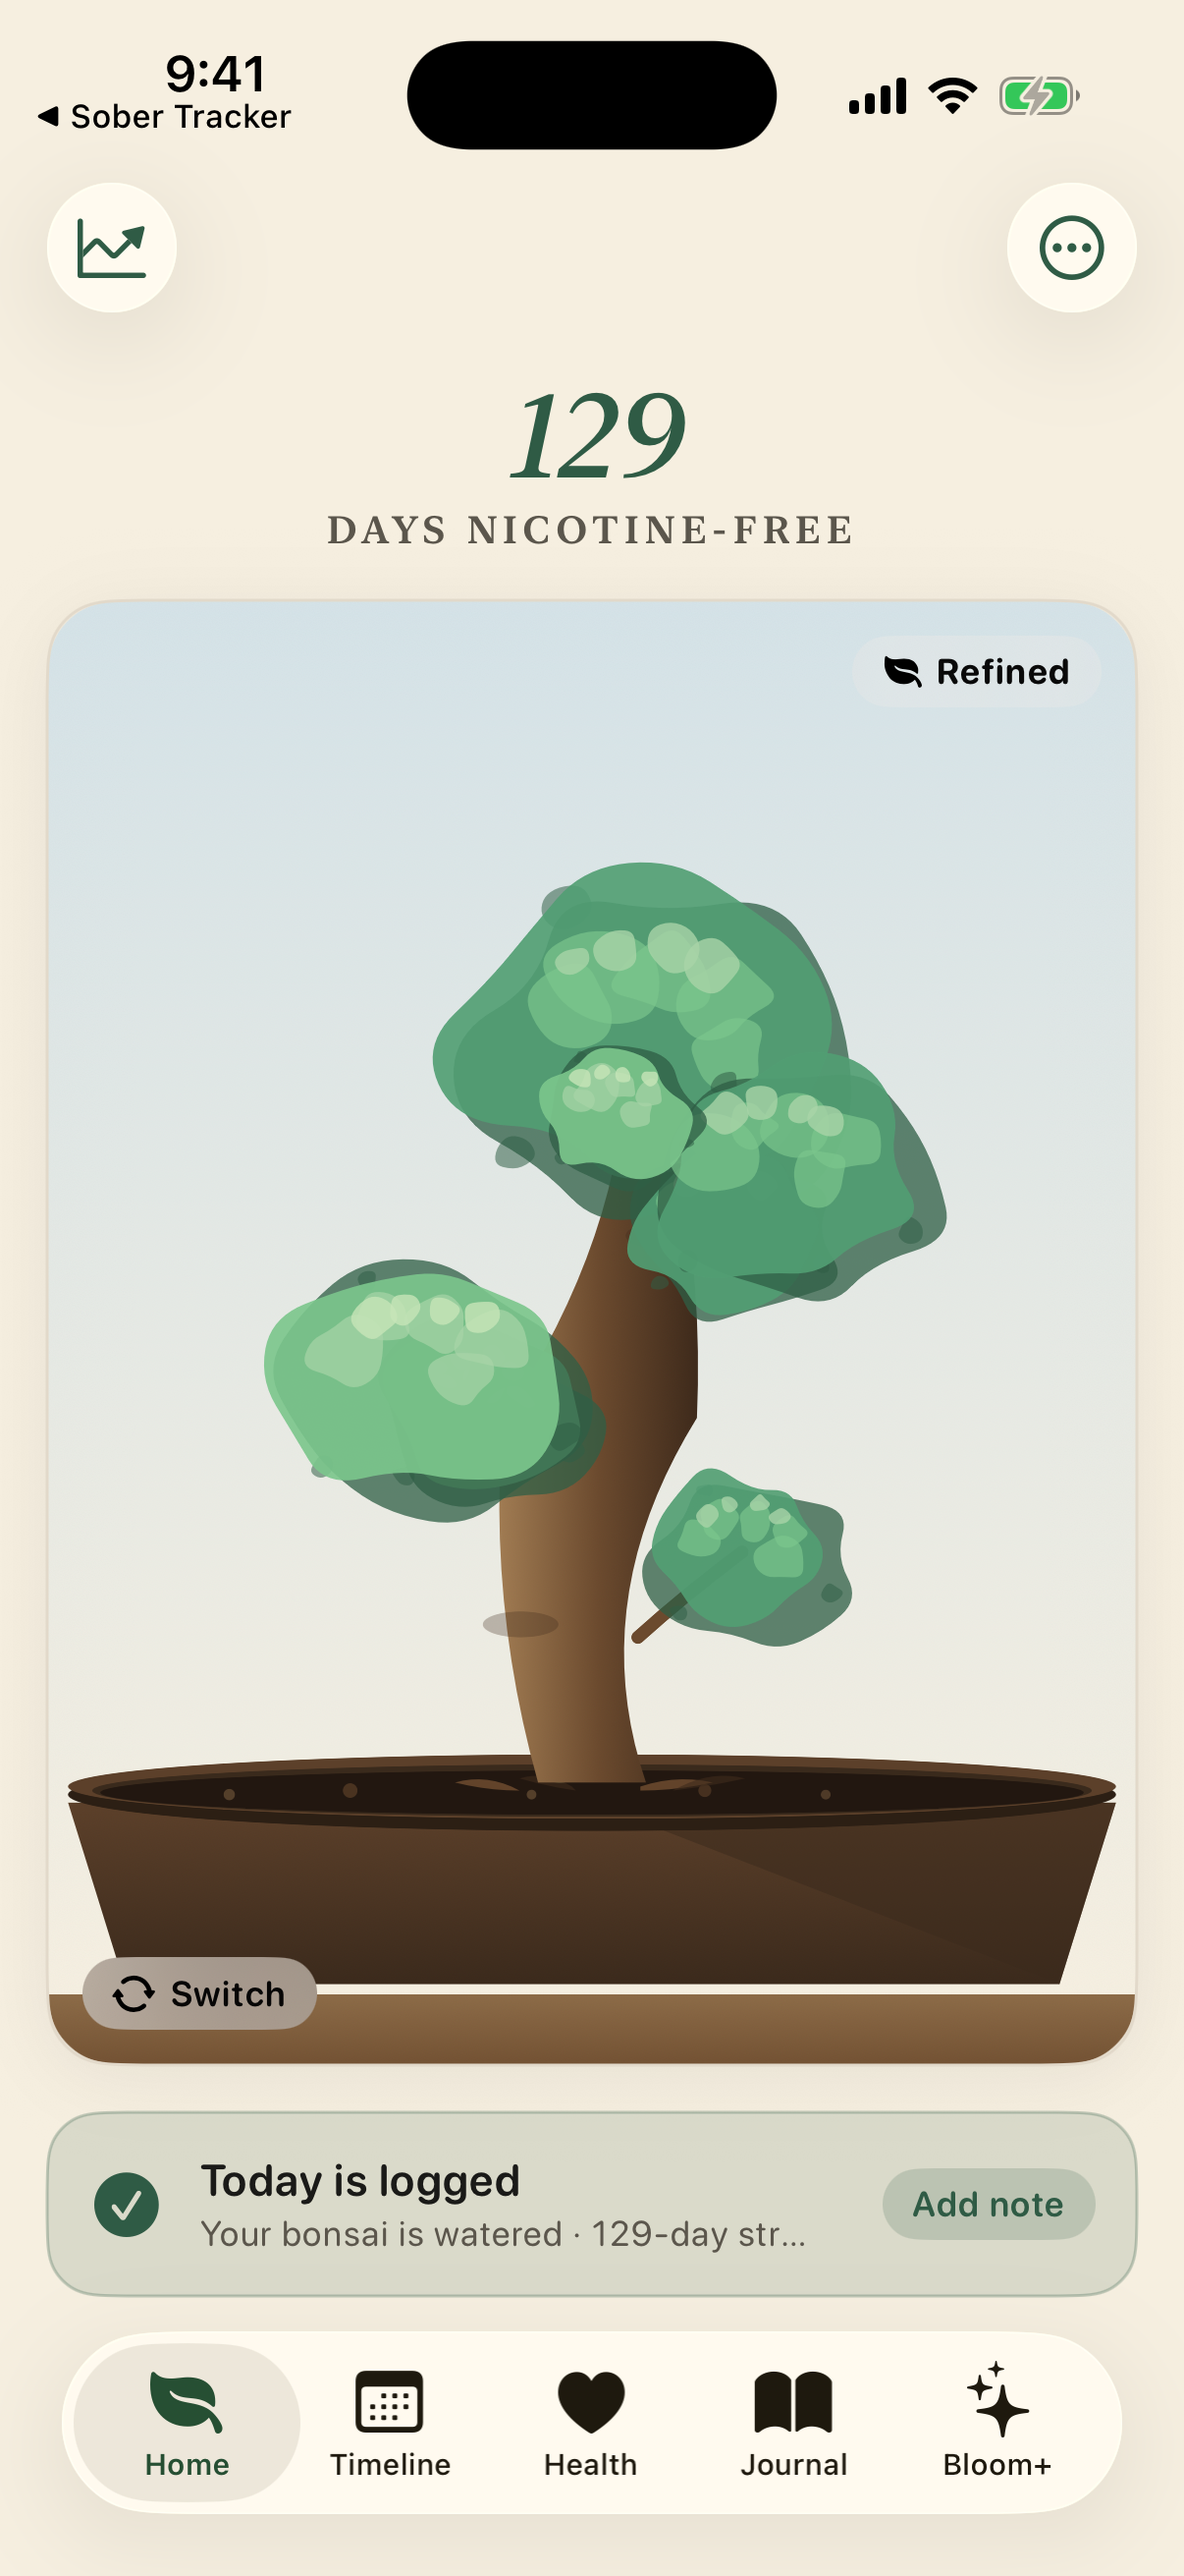
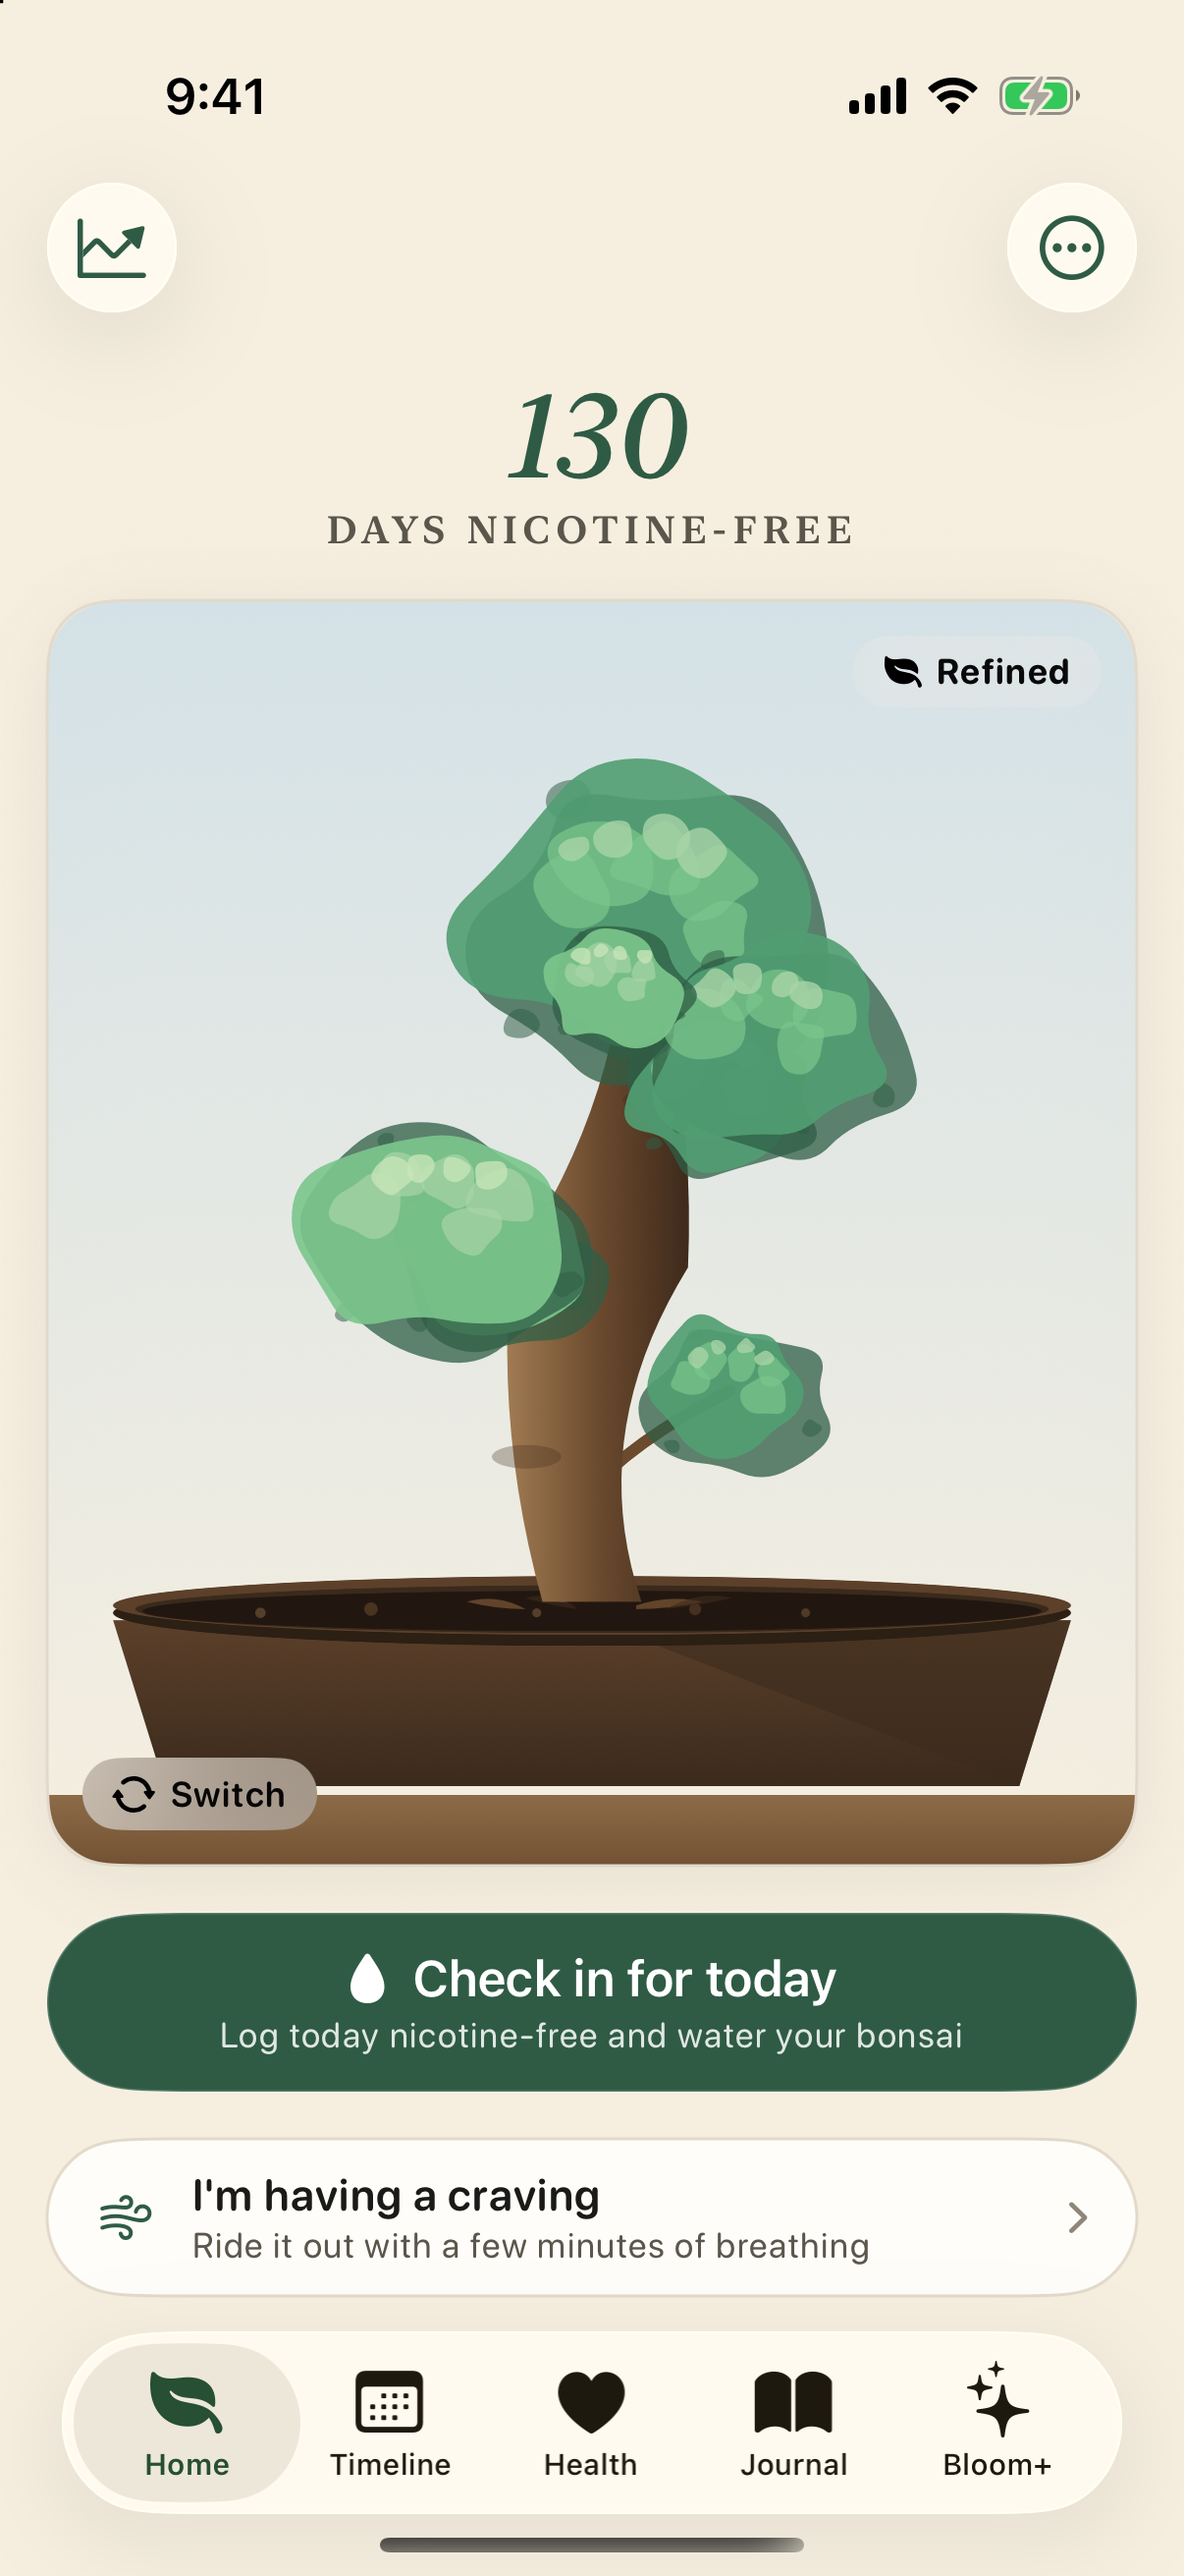
gh-sim nicfree-mbair285d-1112-064313-3161

diff --git a/SoberUITests/IPadLayoutShotsUITests.swift b/SoberUITests/IPadLayoutShotsUITests.swift
@@ -1,0 +1,58 @@
+import XCTest
+
+/// iPad layout proof: every main screen, onboarding steps and the paywall,
+/// portrait then landscape. Attachments are named `<orientation>__<scene>.png`.
+/// Run: `gh-sim test --device 'iPad Pro 13-inch (M5)' --only SoberUITests/IPadLayoutShotsUITests`.
+final class IPadLayoutShotsUITests: XCTestCase {
+    private let seeded = ["-seedDemo", "-demoPro", "-seedDays", "130", "-QuitZynScreenshot"]
+
+    private struct Scene {
+        let name: String
+        let args: [String]
+    }
+
+    private var scenes: [Scene] {
+        [
+            Scene(name: "home", args: seeded),
+            Scene(name: "health", args: seeded + ["-DuoScreen", "health"]),
+            Scene(name: "journal", args: seeded + ["-DuoScreen", "journal"]),
+            Scene(name: "bloom", args: seeded + ["-DuoScreen", "bloom"]),
+            Scene(name: "timeline", args: seeded + ["-DuoScreen", "timeline"]),
+            Scene(name: "craving", args: seeded + ["-craving"]),
+            Scene(name: "slip", args: seeded + ["-slip"]),
+            Scene(name: "garden", args: seeded + ["-screenshotGarden"]),
+            Scene(name: "checkin", args: seeded + ["-screenshotCheckIn"]),
+            Scene(name: "patterns", args: seeded + ["-DuoScreen", "bloom", "-screenshotPatterns"]),
+            Scene(name: "paywall-trial", args: ["-PaywallSnapshot", "trial", "-previewStore"]),
+            Scene(name: "paywall-yearly", args: ["-PaywallSnapshot", "yearly", "-previewStore"]),
+            Scene(name: "bloom-free", args: ["-seedDemo", "-seedDays", "30", "-QuitZynScreenshot", "-DuoScreen", "bloom", "-previewStore"]),
+        ] + (0...5).map { step in
+            Scene(name: "onboarding\(step)", args: ["-onboardingStep", "\(step)", "-previewStore"])
+        }
+    }
+
+    private func run(_ orientation: UIDeviceOrientation, label: String, only: Set<String>?) {
+        XCUIDevice.shared.orientation = orientation
+        Thread.sleep(forTimeInterval: 1)
+        for scene in scenes where only?.contains(scene.name) ?? true {
+            let app = XCUIApplication(bundleIdentifier: "com.jackwallner.quitzyn")
+            app.launchArguments = scene.args
+            app.launchEnvironment = ["SOBER_SCREENSHOT_MODE": "1"]
+            app.launch()
+            _ = app.wait(for: .runningForeground, timeout: 30)
+            Thread.sleep(forTimeInterval: 3)
+            let attachment = XCTAttachment(screenshot: app.screenshot())
+            attachment.name = "\(label)__\(scene.name).png"
+            attachment.lifetime = .keepAlways
+            add(attachment)
+            app.terminate()
+        }
+    }
+
+    private var only: Set<String>? {
+        ProcessInfo.processInfo.environment["IPAD_SCENES"].map { Set($0.split(separator: ",").map(String.init)) }
+    }
+
+    func testPortrait() { run(.portrait, label: "portrait", only: only) }
+    func testLandscape() { run(.landscapeLeft, label: "landscape", only: only) }
+}
